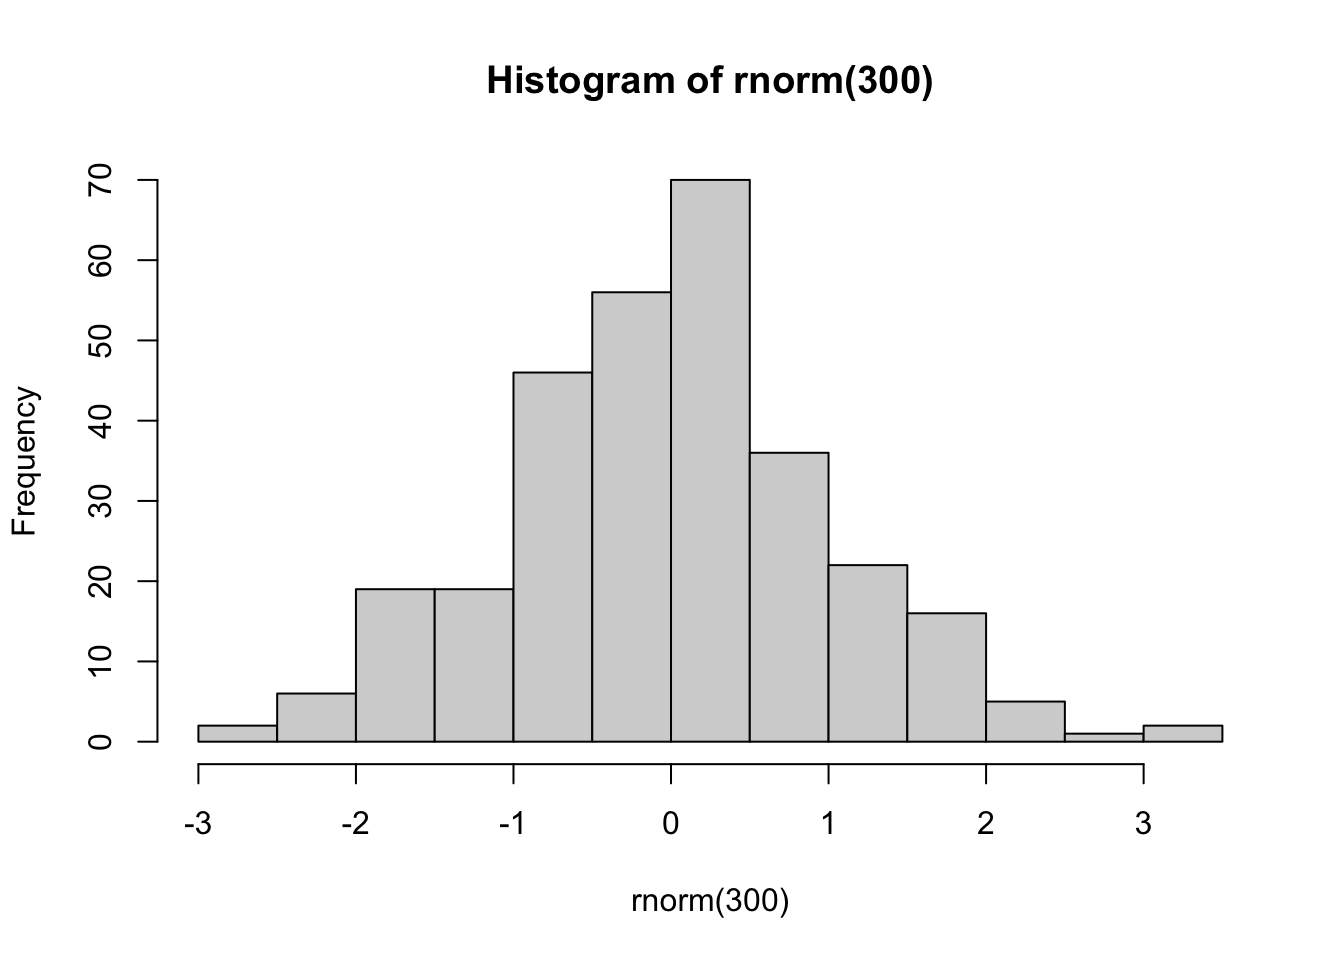
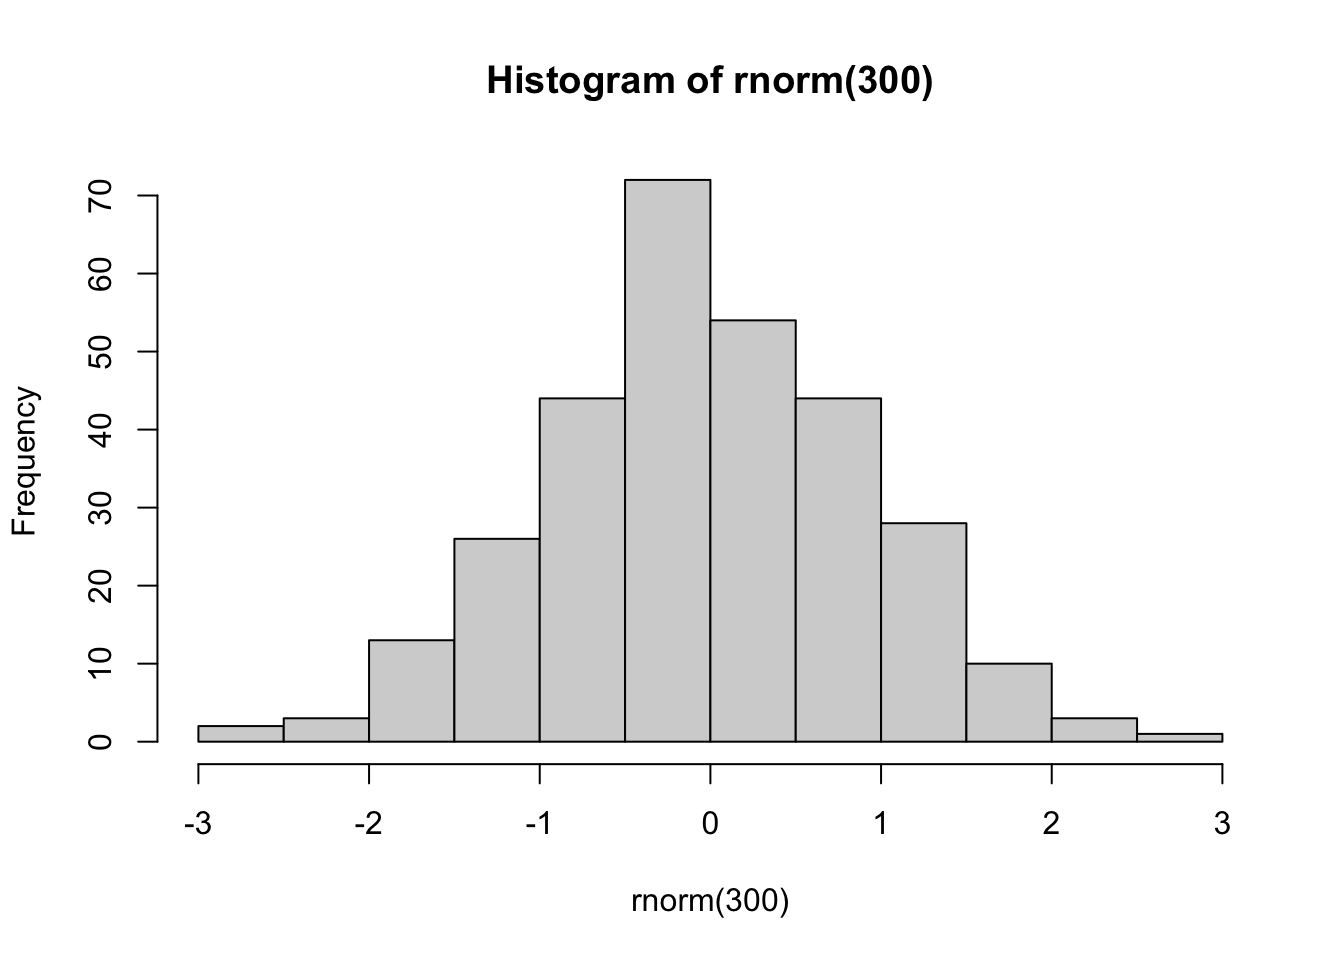
Built site for gh-pages

diff --git a/projects.html b/projects.html
@@ -215,7 +215,7 @@ window.Quarto = {
 
 <div class="quarto-listing quarto-listing-container-default" id="listing-listing">
 <div class="list quarto-listing-default">
-<div class="quarto-post image-right" data-index="0" data-listing-date-sort="1750824000000" data-listing-file-modified-sort="1752160931879" data-listing-date-modified-sort="NaN" data-listing-reading-time-sort="1" data-listing-word-count-sort="6">
+<div class="quarto-post image-right" data-index="0" data-listing-date-sort="1750824000000" data-listing-file-modified-sort="1752160976754" data-listing-date-modified-sort="NaN" data-listing-reading-time-sort="1" data-listing-word-count-sort="6">
 <div class="thumbnail">
 <p><a href="./projects/EDA/eda.html" class="no-external"></a></p><a href="./projects/EDA/eda.html" class="no-external">
 <p class="card-img-top"><img src="projects/EDA/cover.jpg"  class="thumbnail-image card-img"/></p>
@@ -240,7 +240,7 @@ Jun 25, 2025
 </a>
 </div>
 </div>
-<div class="quarto-post image-right" data-index="1" data-listing-date-sort="1753416000000" data-listing-file-modified-sort="1752160931881" data-listing-date-modified-sort="NaN" data-listing-reading-time-sort="1" data-listing-word-count-sort="6">
+<div class="quarto-post image-right" data-index="1" data-listing-date-sort="1753416000000" data-listing-file-modified-sort="1752160974274" data-listing-date-modified-sort="NaN" data-listing-reading-time-sort="1" data-listing-word-count-sort="6">
 <div class="thumbnail">
 <p><a href="./projects/capstone/capstone.html" class="no-external"></a></p><a href="./projects/capstone/capstone.html" class="no-external">
 <div class="listing-item-img-placeholder card-img-top" >&nbsp;</div>
@@ -362,7 +362,7 @@ window.document.addEventListener("DOMContentLoaded", function (event) {
   }
     var localhostRegex = new RegExp(/^(?:http|https):\/\/localhost\:?[0-9]*\//);
     var mailtoRegex = new RegExp(/^mailto:/);
-      var filterRegex = new RegExp('/' + window.location.host + '/');
+      var filterRegex = new RegExp("https:\/\/sherylslz\.github\.io\/");
     var isInternal = (href) => {
         return filterRegex.test(href) || localhostRegex.test(href) || mailtoRegex.test(href);
     }

diff --git a/index.html b/index.html
@@ -241,7 +241,7 @@ window.document.addEventListener("DOMContentLoaded", function (event) {
   }
     var localhostRegex = new RegExp(/^(?:http|https):\/\/localhost\:?[0-9]*\//);
     var mailtoRegex = new RegExp(/^mailto:/);
-      var filterRegex = new RegExp('/' + window.location.host + '/');
+      var filterRegex = new RegExp("https:\/\/sherylslz\.github\.io\/");
     var isInternal = (href) => {
         return filterRegex.test(href) || localhostRegex.test(href) || mailtoRegex.test(href);
     }

diff --git a/projects/EDA/eda.html b/projects/EDA/eda.html
@@ -298,7 +298,7 @@ window.document.addEventListener("DOMContentLoaded", function (event) {
   }
     var localhostRegex = new RegExp(/^(?:http|https):\/\/localhost\:?[0-9]*\//);
     var mailtoRegex = new RegExp(/^mailto:/);
-      var filterRegex = new RegExp('/' + window.location.host + '/');
+      var filterRegex = new RegExp("https:\/\/sherylslz\.github\.io\/");
     var isInternal = (href) => {
         return filterRegex.test(href) || localhostRegex.test(href) || mailtoRegex.test(href);
     }

diff --git a/projects/capstone/capstone.html b/projects/capstone/capstone.html
@@ -257,7 +257,7 @@ window.document.addEventListener("DOMContentLoaded", function (event) {
   }
     var localhostRegex = new RegExp(/^(?:http|https):\/\/localhost\:?[0-9]*\//);
     var mailtoRegex = new RegExp(/^mailto:/);
-      var filterRegex = new RegExp('/' + window.location.host + '/');
+      var filterRegex = new RegExp("https:\/\/sherylslz\.github\.io\/");
     var isInternal = (href) => {
         return filterRegex.test(href) || localhostRegex.test(href) || mailtoRegex.test(href);
     }
